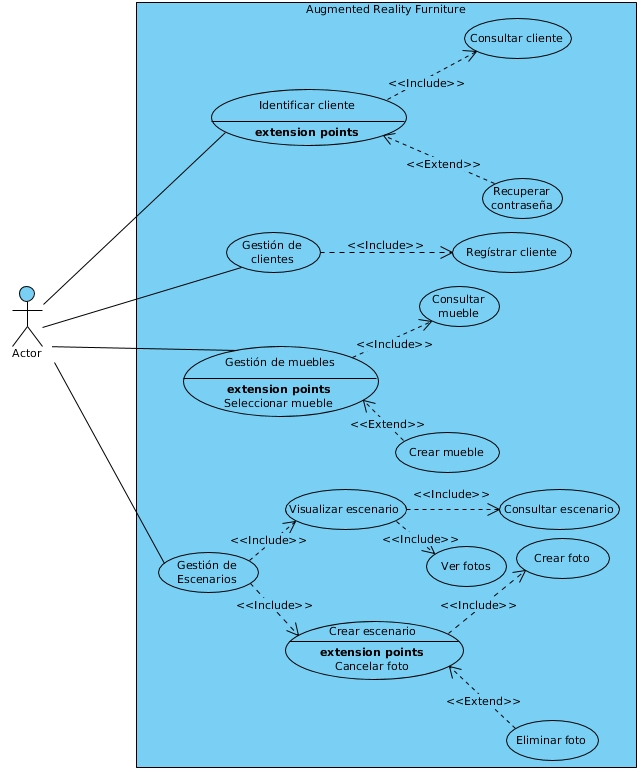
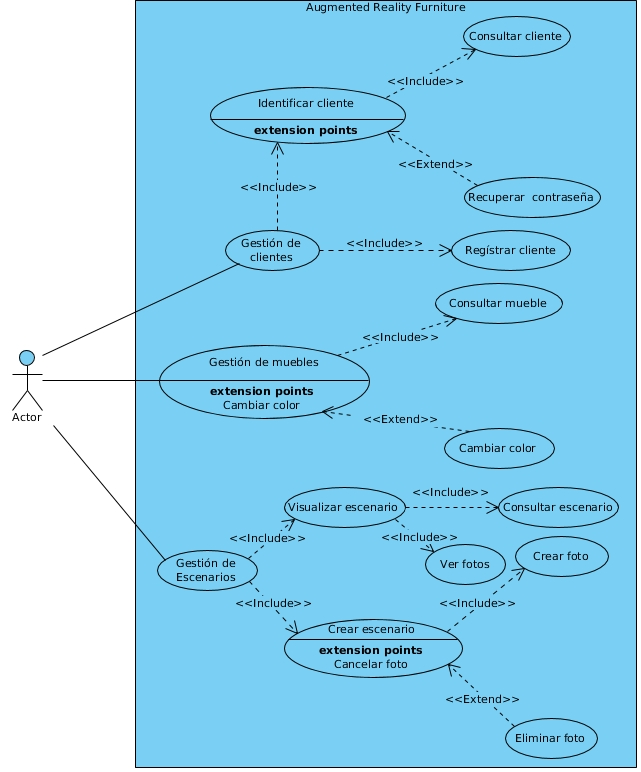
Modificando requerimientos funcionales

diff --git a/TT2018-A002/analisis/secciones/requisitosFuncionales.tex b/TT2018-A002/analisis/secciones/requisitosFuncionales.tex
@@ -1,8 +1,29 @@
-\section{Requisítos Funcionales}
-En esta seccion se detallaran los requisitos necesarios para el funcionamiento de la aplicación.\par
-\vspace{5mm}
+\section{Requerimientos de la aplicación}
+La siguiente sección describimos los módulos, detallando la funcionalidad de cada uno y su flujo con sus posibles escenarios.\par
+
+\subsection{Registro de cuenta}
+\textbf{Actor :} \textit{Cliente} \par
+\textbf{Descripción :} Los usuarios deberán registrase si desean interactuar por completo con todas las funciones disponibles de la aplicación. Este registro se basa en crear una cuenta con tu nombre, correo electrónico y una contraseña.
+\subsection{Inicio de sesión}
+\textbf{Actor :} \textit{Cliente} \par
+\textbf{Descripción :} Los usuarios deberán acceder con sus datos de registro para tener acceso a toda la funcionalidad de la aplicación.
+\subsection{Recuperar contraseña}
+\textbf{Actor :} \textit{Cliente} \par
+\textbf{Descripción :} Los usuarios que olviden su contraseña de acceso deberán solicitarla y posteriormente enviada a su correo electrónico
+
+\subsection{Consultar muebles}
+\textbf{Actor :} \textit{Cliente} \par
+\textbf{Descripción :} Los usuarios podrán consultar los muebles disponibles dentro de un catalogo, donde sera el modelo visualizado en la realidad aumentada.
+
+\subsection{Cambiar de color a mueble}
+\textbf{Actor :} \textit{Cliente} \par
+\textbf{Descripción :} Los usuarios podran cambiarle el color a un mueble.
+
+
+
+
 \begin{enumerate}[1.]
-\item El usuario debe validarse por medio de un login para poder realizar cualquier función en la aplicación 
+\item El usuario debe validarse por medio de un login para poder realizar cualquier función en la aplicación
 \item El usuario podra seleccionar un mueble desde un catálogo. 
 \item El usuario podrá modificar el color del mueble a visualizar. 
 \item Implementación de la aplicación móvil 
